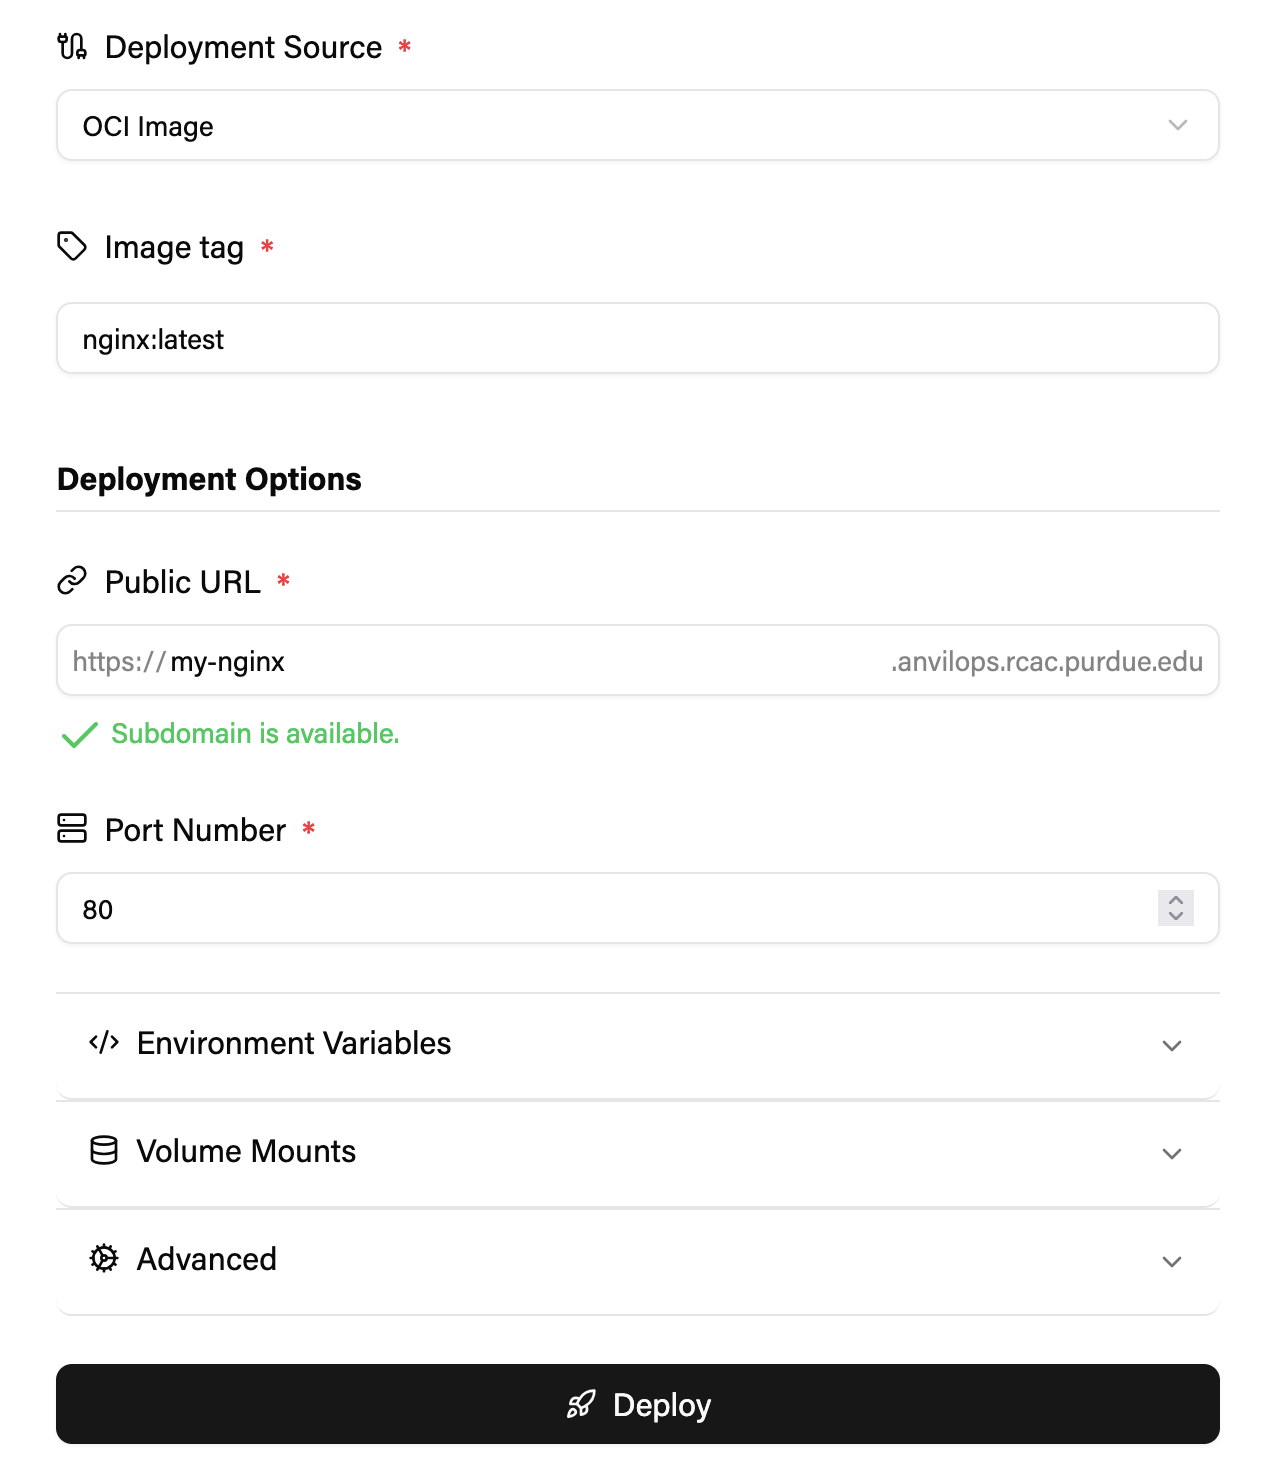
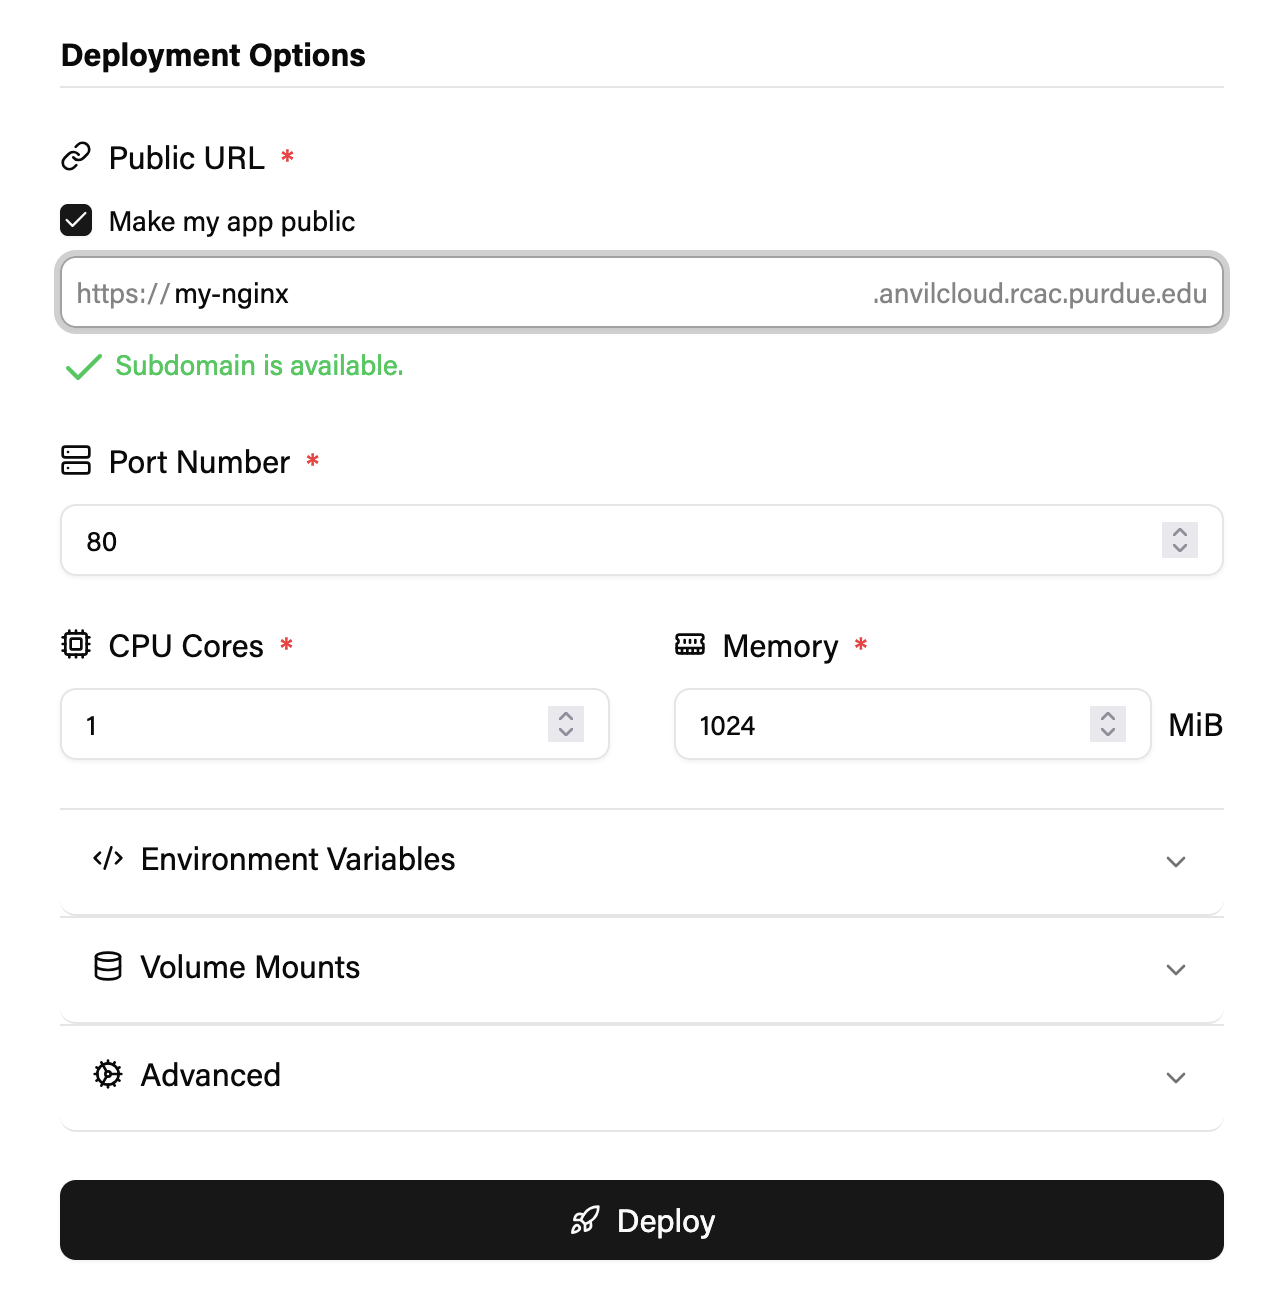
Bring documentation up to date

diff --git a/docs/src/content/docs/guides/from-github.md b/docs/src/content/docs/guides/from-github.md
@@ -6,11 +6,11 @@ sidebar:
 
 This tutorial will demonstrate:
 
-- How to deploy one of AnvilOps' template applications on Anvil Composable.
+- How to deploy one of AnvilOps' template applications.
 - How to use Railpack to build applications without a Dockerfile.
 - How to use AnvilOps' GitHub integrations for continuous deployment.
 
-Follow along at `https://anvilops.rcac.purdue.edu`.
+Follow along at `https://anvilops.rcac.purdue.edu` or `https://anvilops.geddes.rcac.purdue.edu`.
 
 ### Prerequisites
 
@@ -23,17 +23,19 @@ If you do not have access to your own project on Anvil Composable, select the `a
 1. Click the Create App button on the AnvilOps dashboard.
    ![Create App buttons](./tutorial/create-app-buttons.png)
 
-2. After selecting an Organization (and a Rancher project), select `Git Repository` as the Deployment Source.
+2. Select a Rancher project to deploy the application into. A project is a grouping of applications within a Kubernetes cluster. If you do not have access to your own project on Anvil Composable, select the `anvilops_sandbox` project.
 
-3. Click the repository dropdown, and select `External Git Repository`.
+3. Select `Git Repository` as the Deployment Source. If the form prompts you to install the GitHub App on your organization, click the button and follow the instructions. The AnvilOps GitHub App allows AnvilOps to clone repositories to your account as well as redeploy applications in response to events.
 
-4. Select the `AnvilOps Demo` template app. You will be prompted to import the `anvilops-demo` repository to your account.
+4. Click the repository dropdown, and select `External Git Repository`.
+
+5. Select the `AnvilOps Demo` template app. You will be prompted to import the `anvilops-demo` repository to your account.
 
    The default settings configure AnvilOps to automatically redeploy your application when a new commit is pushed to the `main` branch of your repository.
 
    ![Settings for a deployment of the AnvilOps Demo app from a Git repository. The branch is set to main, and the event is set to push.](./tutorial/git-demo.png)
 
-5. Look over the settings that have been autofilled.
+6. Look over the settings that have been autofilled.
 
    **Build**: AnvilOps will use Railpack to detect the framework the repository uses([Astro](https://astro.build/)) and build it without extra configuration.
 
@@ -43,8 +45,8 @@ If you do not have access to your own project on Anvil Composable, select the `a
 
    ![Build and deployment options for the AnvilOps demo app. The builder is Railpack, the subdomain is anvilops-demo-96ynq, and the port number is 80.](./tutorial/git-build-deploy.png)
 
-6. Click `Deploy`. In a few minutes, the application should be up and running at \
-   `https://<subdomain>.anvilcloud.rcac.purdue.edu`.
+7. Click `Deploy`. In a few minutes, the application should be up and running at \
+   `https://<subdomain>.anvilcloud.rcac.purdue.edu`, or `https://<subdomain>.geddes.rcac.purdue.edu`.
 
    ![A screenshot of the AnvilOps demo web app.](./tutorial/anvilops-git-demo-app.png)
 
@@ -59,4 +61,4 @@ Try pushing a commit to the repository to see how AnvilOps updates the deploymen
 3. Go back to the dashboard for your app in AnvilOps. Under `Recent Deployments`, you should see a new entry. If you click the `Logs` button for that deployment, you can watch the logs as AnvilOps rebuilds the application.
    ![A screenshot of the recent deployments for an AnvilOps app. The latest entry has the status Building.](./tutorial/git-recent-deployments.png)
 
-4. When the build completes, go back to `https://<subdomain>.anvilcloud.rcac.purdue.edu` and reload the page. It should have the updated text.
+4. When the build completes, reopen your application and reload the page. It should have the updated text.

diff --git a/docs/src/content/docs/guides/deploying-a-database.md b/docs/src/content/docs/guides/deploying-a-database.md
@@ -25,9 +25,7 @@ This tells AnvilOps to pull a Postgres image from Docker Hub and deploy it in th
 
 ## 3. Configure Deployment Options
 
-Set the **Public URL** subdomain to a unique name. Postgres communicates with clients over TCP, not HTTP, so it will not be publicly accessible at this URL.
-Instead, we will need to use the cluster-internal hostname below. In this screenshot, that's `anvilops-pg-example.anvilops-pg-example.svc.cluster.local`.
-**Write down this value. We will need it to connect to the database.**
+Uncheck the box labeled `Make my app public` since our database is not a web application.
 
 Set the port number to `5432` so that AnvilOps knows which port to expose outside of the Postgres container.
 
@@ -59,27 +57,33 @@ We use volume mounts to specify the paths we want to keep when the app is update
 
 Consider the file system to be ephemeral except the paths included in your volume mounts.
 
+## 6. (Optional) Set the namespace
+
+Open the Advanced dropdown. AnvilOps will have already filled in a unique namespace for your application, which you can edit. Your application will be reachable from within the cluster at `<namespace>.<namespace>.svc.cluster.local`.
+
+![](./deploying-a-database/advanced-options.png)
+
 ## 6. Connect to the Database
 
 Recall the internal address you created earlier.
-In this example, it's `anvilops-pg-example.anvilops-pg-example.svc.cluster.local`. It should follow the form `anvilops-{subdomain}.anvilops-{subdomain}.svc.cluster.local`, where `{subdomain}` is what you typed into the Public URL field.
+In this example, it's `pg-example.pg-example.svc.cluster.local`.
 
 Let's create a connection string from this hostname. We can connec to the database at:
 
 ```
-postgresql://anvilops:password@anvilops-pg-example.anvilops-pg-example.svc.cluster.local:80
+postgresql://anvilops:password@pg-example.pg-example.svc.cluster.local:80
 ```
 
 Assuming these values:
 
-- Host: `anvilops-pg-example.anvilops-pg-example.svc.cluster.local`
+- Host: `pg-example.pg-example.svc.cluster.local`
 - Port: `80` (The port must be set to 80. AnvilOps always exposes your service at port 80 within the cluster.)
 - Username: `anvilops` (from the environment variable you set in Step 4)
 - Password: `password` (from the environment variable you set in Step 4)
 
-Any application running in the same Kubernetes cluster can now access your database with this connection string.
+Applications will access your database with this connection string. We recommend deploying an application that connects to this database through AnvilOps and adding them to the same app group. Using a network policy, AnvilOps will ensure that the two can communicate.
 
-If you want to access your database from another AnvilOps app, we recommend placing your connection string in an environment variable and marking it as sensitive.
+If you want to access your database from another AnvilOps app, we recommend placing your connection string in its environment variables and marking it as sensitive.
 
 ## Limitations
 
@@ -87,4 +91,4 @@ If you want to access your database from another AnvilOps app, we recommend plac
 
    In most cases, you can get away with scaling vertically by increasing the app's CPU and memory limits.
 
-2. AnvilOps does not expose non-HTTP services to the public. Your database will not be accessible at the "Public URL" because Postgres uses TCP to communicate with clients.
+2. AnvilOps does not expose non-HTTP services, such as Postgres, to the public.

diff --git a/docs/src/content/docs/guides/from-image.md b/docs/src/content/docs/guides/from-image.md
@@ -9,7 +9,7 @@ This tutorial will demonstrate:
 
 - How to deploy an application from a preexisting container image.
 
-Follow along at `https://anvilops.rcac.purdue.edu`.
+Follow along at `https://anvilops.rcac.purdue.edu` or `https://anvilops.geddes.rcac.purdue.edu`.
 
 ### Getting started
 
@@ -18,17 +18,17 @@ Follow along at `https://anvilops.rcac.purdue.edu`.
 
 2. After selecting an Organization (and a Rancher project), select `OCI Image` as the Deployment Source.
 
-3. Enter a container image. The image reference should look like `REGISTRY/NAMESPACE/REPOSITORY:TAG`.
+3. Enter a container image. The image reference should look like `HOST/NAMESPACE/REPOSITORY:TAG`.
 
-   If you are deploying an image available on Docker Hub, you can omit the host. If the image is a Docker Official image, you can omit the repository as well. However, it's strongly advised to use Anvil's [Docker Hub cache](https://www.rcac.purdue.edu/knowledge/anvil/composable/registry#_using_the_anvil_registry_docker_hub_cache) instead.
+   Where possible, it is strongly advised to use Anvil's [Docker Hub cache](https://www.rcac.purdue.edu/knowledge/anvil/composable/registry#_using_the_anvil_registry_docker_hub_cache) instead of pulling directly from Docker Hub to avoid rate limiting.
 
    Some example container image references:
 
-   - `registry.anvil.rcac.purdue.edu/anvilops/foo:bar`
+   - `registry.anvil.rcac.purdue.edu/docker-hub-cache/postgis:latest`
      - Host: `registry.anvil.rcac.purdue.edu`
-     - Namespace: `anvilops`
-     - Image: `foo`
-     - Tag: `bar`
+     - Namespace: `docker-hub-cache`
+     - Image: `postgis`
+     - Tag: `latest`
    - `nginx:1.28-alpine`
      - Host: `docker.io` (default)
      - Namespace: `library` (default)
@@ -37,9 +37,9 @@ Follow along at `https://anvilops.rcac.purdue.edu`.
 
 ### Deployment options
 
-4. Select a unique subdomain for your app. Your app will be made publicly accessible at `https://<subdomain>.anvilcloud.rcac.purdue.edu`.
+4. Choose whether to expose your app publicly, and if so, select a subdomain. Your app will be made publicly accessible at `https://<subdomain>.anvilcloud.rcac.purdue.edu`, or `https://<subdomain>.geddes.rcac.purdue.edu`.
 
-5. Enter the port number your application listens on. Kubernetes will route requests to `https://<subdomain>.anvilcloud.rcac.purdue.edu` to this port for your applications to process.
+5. Enter the port number your application listens on. Kubernetes will route requests to this port for your application to process.
 
 6. Add any environment variables your app requires. Environment variables can be marked as sensitive. Sensitive environment variables cannot be viewed after they are set, although they can be updated.
 

diff --git a/docs/src/content/docs/intro/what-is-anvilops.md b/docs/src/content/docs/intro/what-is-anvilops.md
@@ -22,11 +22,11 @@ Kubernetes is extremely powerful, but its large feature set makes it quite compl
 
 CI/CD stands for Continuous Integration and Continuous Delivery/Deployment. It's the name for a set of systems that enable software developers to release updates quickly by automating the build, testing, and deployment processes.
 
-AnvilOps can automatically builds your application for you. Just select one of the supported builders: the Dockerfile builder, which builds from a Dockerfile inside your GitHub repository, or [Railpack](/reference/railpack), which detects the application type and automatically builds it without extra configuration.
+AnvilOps can automatically builds your application for you. Just select one of the builders: the Dockerfile builder, for customized builds, or [Railpack](/reference/railpack), which detects the application type and automatically builds it.
 
 ![ Build options on the AnvilOps app creation form. Two builders are available: Dockerfile and Railpack.](./what-is-anvilops/builders.png)
 
-When you create an App with AnvilOps, the platform gives you the option to enable automatic builds and deployments. When you push a commit to your GitHub repository, AnvilOps will rebuild your application and immediately deploy the change, allowing you to iterate quickly without setting up a custom CI/CD pipeline.
+AnvilOps can automatically build and deploy your app in response to certain events. For instance, when you push a commit to your GitHub repository, AnvilOps will rebuild your application and immediately deploy the change, allowing you to iterate quickly without setting up a custom CI/CD pipeline.
 
 ### Logging and Monitoring
 
@@ -40,4 +40,4 @@ You can also see the current status of all your application's pods in realtime a
 
 ### Automatic Subdomain and TLS Certificate
 
-Every app deployed on AnvilOps gets its own subdomain, and TLS encryption is handled for you. If you are deploying on Anvil, you may select a subdomain of `anvilops.rcac.purdue.edu`. If you are deploying on Geddes, you may select a subdomain of `anvilops.geddes.rcac.purdue.edu`.
+Every app deployed on AnvilOps can have its own subdomain, and TLS encryption is handled for you. On Anvil, you may select a subdomain of `anvilcloud.rcac.purdue.edu`. On Geddes, you may select a subdomain of `geddes.rcac.purdue.edu`.

diff --git a/docs/src/content/docs/reference/concepts.md b/docs/src/content/docs/reference/concepts.md
@@ -16,9 +16,9 @@ Only an organization owner is allowed to delete the organization— and with it,
 
 This represents the application you would like to run on the Kubernetes cluster. An App can be created from a GitHub repository or an [OCI-compliant](https://opencontainers.org/) container image (e.g. a Docker image).
 
-Your App has a subdomain that allows external users to access your application at `<subdomain>.anvilcloud.rcac.purdue.edu` (Anvil Composable) or `<subdomain>.geddes.rcac.purdue.edu` (Geddes).
+Your App may have a subdomain that allows external users to access your application at `<subdomain>.anvilcloud.rcac.purdue.edu` (Anvil Composable) or `<subdomain>.geddes.rcac.purdue.edu` (Geddes).
 
-An app may be standalone, or it may belong to an app group. Within the cluster, an app is accessible to other apps in the same app group at `anvilops-<subdomain>.anvilops-<subdomain>`.
+An app may be standalone, or it may belong to an app group. Within the cluster, an app is accessible to other apps in the same app group at `<namespace>.<namespace>`.
 
 ## App Group
 
@@ -38,9 +38,9 @@ Deployments have statuses:
 - Queued: AnvilOps is waiting for other builds to complete before starting a build
 - Building: AnvilOps is cloning your repository and building it into a container image
 - Deploying: AnvilOps is generating Kubernetes manifests from your Deployment configuration and applying them to the cluster
-- Success: The deployment process is complete and the deployment is running
+- Complete: The deployment process is complete and the deployment is running
 - Stopped: The deployment completed (successfully or not) in the past, but it's no longer running
 - Error: Something went wrong during the build or deployment process. Check the deployment logs for more information.
 
 On the Overview tab of the App page, you will see one Deployment with the "✓ Current" tag. The Current Deployment is the one that's currently receiving web traffic.
-When a new Deployment's status is set to Success, it may take a minute for it to become the Current Deployment. You can monitor this progress in the Status tab.
+When a new Deployment's status is set to Complete, it may take a minute for it to become the Current Deployment. You can monitor this progress in the Status tab.

diff --git a/docs/src/content/docs/reference/networking.md b/docs/src/content/docs/reference/networking.md
@@ -6,22 +6,18 @@ sidebar:
 
 ## Public Subdomain
 
-When you create an app, you must select a unique public subdomain. This cannot be changed after the app is created. This allows AnvilOps to make your app accessible at `<your subdomain>.anvilcloud.rcac.purdue.edu`, or `<your subdomain>.geddes.rcac.purdue.edu`.
+An app can have a unique public subdomain. This allows AnvilOps to make your app accessible at `<your subdomain>.anvilcloud.rcac.purdue.edu`, or `<your subdomain>.geddes.rcac.purdue.edu`. This subdomain can be changed later.
 
-Your public subdomain only supports HTTP. Services like databases which rely on other protocols won't be accessible.
+Your public subdomain only supports HTTP. Services like databases which rely on other protocols won't be accessible to the public.
 
-When a user visits `https://<your subdomain>.anvilcloud.rcac.purdue.edu`, AnvilOps routes the traffic to the corresponding app over the port number specified in the app's configuration.
-
-If your port number is not set properly, you may see a message like this when you visit your public subdomain:
-
-![A web page that says "This app is not available."](networking/app-unavailable.png)
+When a user visits `https://<your subdomain>.anvilcloud.rcac.purdue.edu`, or `https://<your subdomain>.geddes.rcac.purdue.edu`, AnvilOps routes the traffic to the corresponding app over the port number specified in the app's configuration. If the page does not load, check your app's configuration settings to ensure that the port number is correct.
 
 ## Accessing From Other AnvilOps Apps
 
 Your AnvilOps app is accessible to other apps inside the Kubernetes cluster at the following address, on port 80:
 
 ```
-anvilops-<subdomain>.anvilops-<subdomain>
+<namespace>.<namespace>.svc.cluster.local
 ```
 
-**Your service is always exposed at this address on port 80, even if you specified a different port in your configuration.**
+**Your service is always exposed at this address on port 80 internally, even if you specified a different port in your configuration.**

diff --git a/docs/src/content/docs/reference/configuration.md b/docs/src/content/docs/reference/configuration.md
@@ -82,10 +82,16 @@ The module to use to build your repository into a container image, from the spec
 
 ## Public URL <span style="color: #cfb991">\*</span>
 
-A unique subdomain. AnvilOps will then make your application publicly accessible at
+A unique subdomain. AnvilOps can make your application publicly accessible at
 
 ```
 https://<subdomain>.anvilcloud.rcac.purdue.edu
+```
+
+or
+
+```
+https://<subdomain>.geddes.rcac.purdue.edu
 ```
 
 on port 80, without any authentication. **This setting cannot be changed later.**
@@ -144,14 +150,10 @@ The amount of memory, in MiB, to allocate to your application.
 
 ## Advanced
 
-These options configure [the Kubernetes settings of the same names](https://kubernetes.io/docs/concepts/containers/container-lifecycle-hooks/).
+### Keep Historical Logs
 
-Note that post-start and pre-stop commands [may run more than once](https://kubernetes.io/docs/concepts/containers/container-lifecycle-hooks/#hook-delivery-guarantees) in rare cases.
+By default, AnvilOps wraps your application in a process in a command that captures its logs and sends them to AnvilOps to be viewed from the dashboard. This behavior can be disabled later.
 
-### Post-Start Command
+### Namespace
 
-A command to run after the application has started and is ready to receive requests.
-
-### Pre-Stop Command
-
-A command to run before the application is terminated. This only applies when AnvilOps is gracefully terminating your application. If your application terminates itself, this command is not run.
+When creating an app, AnvilOps will automatically generate a namespace for your application. You can also specify the namespace. It cannot be changed later.

diff --git a/docs/src/content/docs/reference/faq.md b/docs/src/content/docs/reference/faq.md
@@ -39,7 +39,6 @@ sidebar:
 ### AnvilOps doesn't support the Kubernetes configurations I need for my application.
 
 - If you would like to stop managing an application with AnvilOps, open the Danger tab of the application page. From here, you may delete the application from AnvilOps, without deleting the associated deployment and other resources on the cluster.
-- **For Git deployments:** AnvilOps will delete the image repository associated with the application!
 
 ### My question isn't listed here.
 
